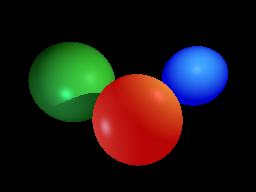
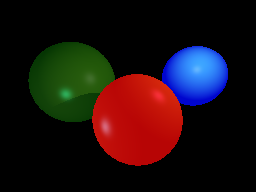
Moved ray_tracing to a function

Changed region(s): [[0.125, 0.2188, 0.7188, 0.8125]]

diff --git a/src/main.rs b/src/main.rs
@@ -1,28 +1,16 @@
 use image::{Rgb, RgbImage};
-use ray_tracing::{intersection_test, Color, Light, Material, Sphere, Vector};
+use ray_tracing::{intersection_test, Color, Frame, Light, Material, Scene, Sphere, Vector, ray_tracer};
 
 fn main() {
-    // Image plain corners vectors
-    let x1 = Vector(1.0, 0.75, 0.0); //Top right
-    let x2 = Vector(-1.0, 0.75, 0.0); //Top left
-    let x3 = Vector(1.0, -0.75, 0.0); // Bottom right
-    let x4 = Vector(-1.0, -0.75, 0.0); //Bottom left
-
-    // Camera vector
-    let c = Vector(0.0, 0.0, -1.0);
-
-    // Plain dimensions in pixels
-    let width = 256;
-    let height = 192;
-
     let sphere1 = Sphere {
         center: Vector(0.2, -0.5, 2.0),
         radius: 1.0,
         color: Color(0.7, 0.0, 0.0), // Red
         material: Material {
             ambient_k: Color(0.2, 0.2, 0.2),
-            diffuse_k: Color(0.5, 0.7, 0.6),
+            diffuse_k: Color(0.3, 0.2, 0.1),
             specular_k: Color(0.8, 0.7, 0.9),
+            reflectivity_k: Color(0.5, 0.7, 0.8),
             shininess: 20,
         },
     };
@@ -33,8 +21,9 @@ fn main() {
         color: Color(0.0, 0.2, 0.0), // Green
         material: Material {
             ambient_k: Color(0.2, 0.1, 0.1),
-            diffuse_k: Color(0.5, 0.8, 0.6),
+            diffuse_k: Color(0.3, 0.2, 0.1),
             specular_k: Color(0.5, 0.7, 0.6),
+            reflectivity_k: Color(0.5, 0.7, 0.8),
             shininess: 20,
         },
     };
@@ -47,13 +36,10 @@ fn main() {
             ambient_k: Color(0.0, 0.2, 0.1),
             diffuse_k: Color(0.6, 0.9, 0.7),
             specular_k: Color(0.8, 0.9, 0.7),
+            reflectivity_k: Color(0.3, 0.1, 0.2),
             shininess: 20,
         },
     };
-
-    let spheres = vec![sphere1, sphere2, sphere3];
-
-    let ambient_light = Color(0.1, 0.1, 0.1);
 
     let light1 = Light {
         location: Vector(-2.0, -1.0, 1.0),
@@ -67,104 +53,52 @@ fn main() {
         specular_int: Color(0.2, 0.1, 0.2),
     };
 
-    let lights = vec![light1, light2];
+    let scene = Scene {
+        frame: Frame {
+            x1: Vector(1.0, 0.75, 0.0),
+            x2: Vector(-1.0, 0.75, 0.0),
+            x3: Vector(1.0, -0.75, 0.0),
+            x4: Vector(-1.0, -0.75, 0.0),
+        },
+        camera: Vector(0.0, 0.0, -1.0),
+        width: 256,
+        height: 192,
+        ambient_light: Color(0.1, 0.1, 0.1),
+        lights: vec![light1, light2],
+        spheres: vec![sphere1, sphere2, sphere3],
+    };
 
-    let mut img = RgbImage::new(width, height);
+    let mut img = RgbImage::new(scene.width, scene.height);
 
     // Looping through each pixel in the 256x192 plain
     // and printing it's coordinates
-    for x in 0..width {
-        for y in 0..height {
-            let alpha = x as f32 / (width - 1) as f32;
-            let beta = y as f32 / (height - 1) as f32;
-            let t = x2.lerp(&x1, alpha);
-            let b = x4.lerp(&x3, alpha);
+
+    for x in 0..scene.width {
+        for y in 0..scene.height {
+            let alpha = x as f32 / (scene.width - 1) as f32;
+            let beta = y as f32 / (scene.height - 1) as f32;
+            let t = scene.frame.x2.lerp(&scene.frame.x1, alpha);
+            let b = scene.frame.x4.lerp(&scene.frame.x3, alpha);
             let p = t.lerp(&b, beta);
-            let d = (p - c).norm();
+            let direction_ray = (p - scene.camera).norm();
 
-            let mut intersections = Vec::new();
+            let mut color = ray_tracer(&scene, direction_ray);
 
-            for sphere in &spheres {
-                let t = intersection_test(&d, &sphere, &c);
+            color = Color(
+                color.0.clamp(0.0, 1.0),
+                color.1.clamp(0.0, 1.0),
+                color.2.clamp(0.0, 1.0),
+            );
 
-                if t > 0.0 {
-                    intersections.push((t, sphere));
-                }
-            }
-            if let Some((t, closest_sphere)) = intersections
-                .iter()
-                .min_by(|a, b| a.0.partial_cmp(&b.0).unwrap())
-            {
-                let p_inter = closest_sphere.intersection_point(&c, &d, *t);
-
-                let surf_normal = closest_sphere.surf_normal(&p_inter);
-
-                let ambient_term = ambient_light * closest_sphere.material.ambient_k;
-
-                let mut color = closest_sphere.color.clone();
-
-                color = color + ambient_term;
-
-                for light in &lights {
-                    let light_vector = (light.location - p_inter).norm();
-
-                    let shadow_origin = p_inter + surf_normal * 1e-4;
-
-                    let shadow_ray = light.location - shadow_origin;
-
-                    let light_dist = (light.location - shadow_origin).len();
-
-                    let mut in_shadow = false;
-
-                    for shadow_sphere in &spheres {
-                        if shadow_sphere.center == closest_sphere.center {
-                            continue;
-                        }
-
-                        let shadow_t = intersection_test(&shadow_ray, &shadow_sphere, &p_inter);
-
-                        if shadow_t > 0.0 && shadow_t < light_dist {
-                            in_shadow = true;
-                            break;
-                        }
-                    }
-                    if !in_shadow {
-                        let dot_prod = surf_normal * light_vector;
-                        if dot_prod > 0.0 {
-                            let diffuse_comp =
-                                light.diffuse_int * closest_sphere.material.diffuse_k * dot_prod;
-
-                            let refl_vector = surf_normal * dot_prod * 2.0 - light_vector;
-
-                            let view_vector = (c - p_inter).norm();
-
-                            let specular_comp = closest_sphere.material.specular_k
-                                * light.specular_int
-                                * (view_vector * refl_vector)
-                                    .powi(closest_sphere.material.shininess);
-
-                            color = color + diffuse_comp + specular_comp
-                        }
-                    }
-                }
-                color = Color(
-                    color.0.clamp(0.0, 1.0),
-                    color.1.clamp(0.0, 1.0),
-                    color.2.clamp(0.0, 1.0),
-                );
-
-                img.put_pixel(
-                    x,
-                    y,
-                    Rgb([
-                        (color.0 * 255.0) as u8,
-                        (color.1 * 255.0) as u8,
-                        (color.2 * 255.0) as u8,
-                    ]),
-                );
-            } else {
-                img.put_pixel(x, y, Rgb([0, 0, 0]));
-            }
+            img.put_pixel(
+                x,
+                y,
+                Rgb([
+                    (color.0 * 255.0) as u8,
+                    (color.1 * 255.0) as u8,
+                    (color.2 * 255.0) as u8,
+                ]),
+            );
         }
     }
 

diff --git a/src/lib.rs b/src/lib.rs
@@ -1,8 +1,5 @@
 use core::f32;
-use std::{
-    clone,
-    ops::{Add, Mul, Sub},
-};
+use std::ops::{Add, Mul, Sub};
 
 #[derive(Debug, Clone, Copy, PartialEq)]
 pub struct Vector(pub f32, pub f32, pub f32);
@@ -211,5 +208,92 @@ pub struct Material {
     pub ambient_k: Color,
     pub diffuse_k: Color,
     pub specular_k: Color,
+    pub reflectivity_k: Color, //if increse refl color decrease the same diffuse color
     pub shininess: i32,
+}
+
+pub struct Scene {
+    pub frame: Frame,
+    pub camera: Vector,
+    pub width: u32,
+    pub height: u32,
+    pub ambient_light: Color,
+    pub spheres: Vec<Sphere>,
+    pub lights: Vec<Light>,
+}
+
+pub struct Frame {
+    pub x1: Vector, //Top right
+    pub x2: Vector, //Top left
+    pub x3: Vector, // Bottom right
+    pub x4: Vector, //Bottom left
+}
+
+pub fn ray_tracer(scene: &Scene, d: Vector) -> Color {
+    let mut intersections = Vec::new();
+
+    for sphere in &scene.spheres {
+        let t = intersection_test(&d, &sphere, &scene.camera);
+
+        if t > 0.0 {
+            intersections.push((t, sphere));
+        }
+    }
+    if let Some((t, closest_sphere)) = intersections
+        .iter()
+        .min_by(|a, b| a.0.partial_cmp(&b.0).unwrap())
+    {
+        let p_inter = closest_sphere.intersection_point(&scene.camera, &d, *t);
+
+        let surf_normal = closest_sphere.surf_normal(&p_inter);
+
+        let ambient_term = scene.ambient_light * closest_sphere.material.ambient_k;
+
+        let mut color = closest_sphere.color.clone();
+
+        color = color + ambient_term;
+
+        for light in &scene.lights {
+            let light_vector = (light.location - p_inter).norm();
+
+            let shadow_ray = light.location - p_inter;
+
+            let mut in_shadow = false;
+
+            for shadow_sphere in &scene.spheres {
+                if shadow_sphere.center == closest_sphere.center {
+                    continue;
+                }
+
+                let shadow_t = intersection_test(&shadow_ray, &shadow_sphere, &p_inter);
+
+                if shadow_t > 0.0 && shadow_t < 1.0 {
+                    in_shadow = true;
+                    break;
+                }
+            }
+            if !in_shadow {
+                let dot_prod = surf_normal * light_vector;
+                if dot_prod > 0.0 {
+                    let diffuse_comp =
+                        light.diffuse_int * closest_sphere.material.diffuse_k * dot_prod;
+
+                    let refl_vector = surf_normal * dot_prod * 2.0 - light_vector;
+
+                    let view_vector = (scene.camera - p_inter).norm();
+
+                    let specular_comp = closest_sphere.material.specular_k
+                        * light.specular_int
+                        * (view_vector * refl_vector).powi(closest_sphere.material.shininess);
+
+                    color = color + diffuse_comp + specular_comp;
+
+                    
+                }
+            }
+        }
+        return color;
+    } else {
+        Color(0.0, 0.0, 0.0)
+    }
 }
